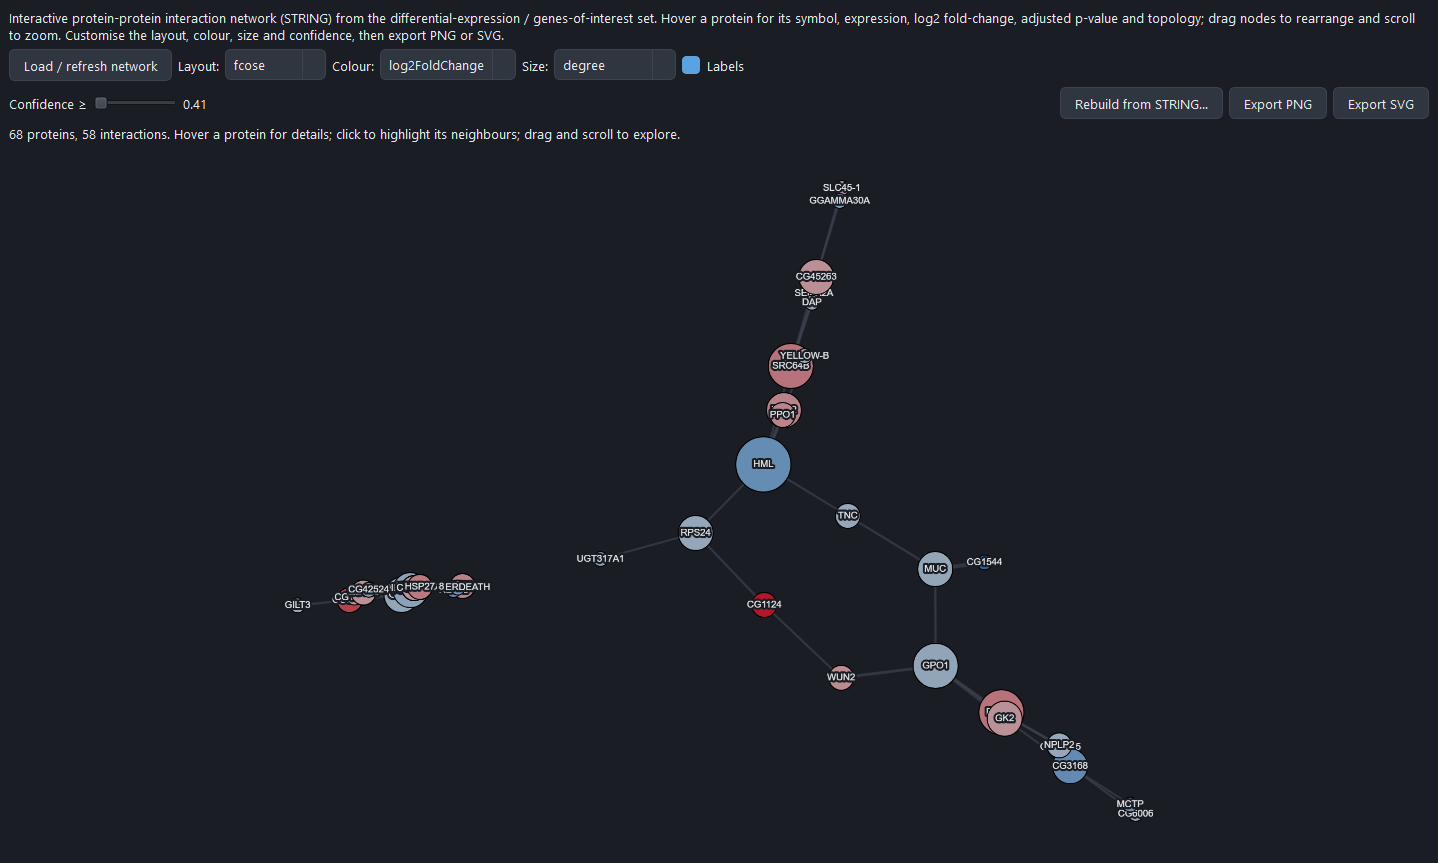
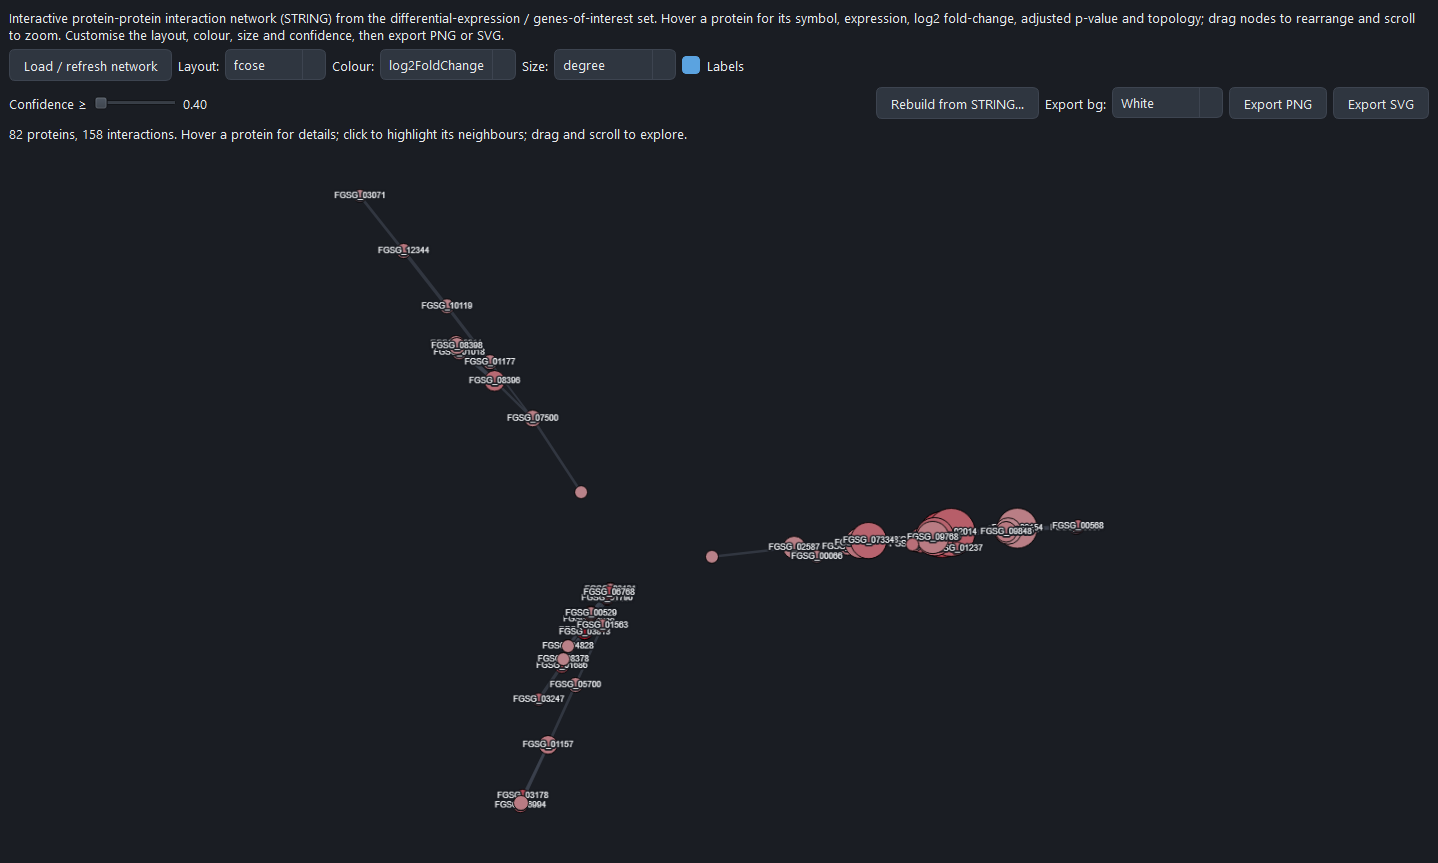
fix(0.6.1): debug-swarm fixes for PPI, enrichment, networks/stats + export bg
A deep debug sweep (find -> adversarial verify -> prioritize) of the 0.6.0 work,
with every fix verified on the benchmark projects before release.

PPI / networks
- build_string_network.R: seed STRING from gene_id when symbols are absent, so
  symbol-less genomes (Fusarium FGSG_* etc.) build a network instead of an empty
  one; log2FC join uses the same id. F. graminearum GSE78885 -> 82 nodes/158 edges.
- skip/degrade now writes a WARNING check (not PASS) and a valid (non-0-byte)
  GraphML; same valid-empty GraphML in export_network.R.

Enrichment / stats
- enrichment.smk: default bitr keytype to SYMBOL in microarray mode (workflow-side,
  not just the GUI), so mapped-OrgDb microarray runs are not silently empty.
- run_set_overlap.R: fall back to gene_id in count-matrix mode (no GTF -> NA symbols).
- sample_correlation.R: pairwise-complete correlation, NA-safe clustering, and
  degrade-to-placeholder so an NA microarray matrix no longer aborts the run.

Interactive PPI viewer
- Export background is selectable (White / Transparent); export forces dark labels
  so they stay legible regardless of the app theme.
- Label auto-hide is display-only (no longer mutates the labels preference / desyncs
  the checkbox); current layout remembered; explicit fit after layout.
- ppi_graph.py: confidence floor from the true min edge weight (no 1.0 sentinel);
  per-symbol dedup ignores NaN baseMean. New regression tests.

Packaging / tooling
[…]

diff --git a/app/assets/web/ppi/viewer.js b/app/assets/web/ppi/viewer.js
@@ -11,6 +11,7 @@ const state = {
   colorBy: "log2FoldChange",  // log2FoldChange | module
   sizeBy: "degree",           // degree | meanExpr | neglog10padj
   labels: true,
+  layout: "fcose",            // current layout name (kept in sync with the Qt combo)
   floor: 0,                   // confidence (edge weight) floor
   theme: { bg: "#ffffff", text: "#1a1a1a", edge: "#c7c7c7", muted: "#8a8a8a" },
 };
@@ -65,24 +66,30 @@ function computeRanges(nodes) {
   };
 }
 
-function styleArray() {
+// Labels are display-only auto-hidden above 220 nodes; this does NOT mutate the
+// user's labels preference, so a later small graph shows them again.
+function labelText(e) {
+  return (state.labels && cy && cy.nodes().length <= 220) ? e.data("symbol") : "";
+}
+function styleArrayFor(theme) {
   return [
     { selector: "node", style: {
         "background-color": nodeColor, "width": nodeSize, "height": nodeSize,
         "border-width": 1, "border-color": "rgba(0,0,0,0.45)",
-        "label": function (e) { return state.labels ? e.data("symbol") : ""; },
-        "font-size": 9, "color": state.theme.text, "text-valign": "center",
+        "label": labelText,
+        "font-size": 9, "color": theme.text, "text-valign": "center",
         "text-halign": "center", "text-outline-width": 2,
-        "text-outline-color": state.theme.bg, "min-zoomed-font-size": 7 } },
+        "text-outline-color": theme.bg, "min-zoomed-font-size": 7 } },
     { selector: "edge", style: {
         "width": function (e) { return 0.5 + (e.data("weight") || 0.4) * 3.5; },
-        "line-color": state.theme.edge, "curve-style": "haystack",
+        "line-color": theme.edge, "curve-style": "haystack",
         "opacity": 0.65 } },
     { selector: "node.faded", style: { "opacity": 0.12 } },
     { selector: "edge.faded", style: { "opacity": 0.05 } },
     { selector: "node.hl", style: { "border-width": 3, "border-color": "#1a73e8" } },
   ];
 }
+function styleArray() { return styleArrayFor(state.theme); }
 
 function pruneToBudget(elements) {
   const nodes = elements.nodes || [];
@@ -99,14 +106,31 @@ function layoutOpts(name, n) {
   if (name === "concentric") return { name: "concentric", animate: false,
         concentric: function (e) { return e.data("degree") || 1; }, levelWidth: function () { return 2; } };
   if (name === "grid") return { name: "grid", animate: false };
-  // fcose default: draft quality (skips the slow spectral init) keeps it sub-second.
+  // fcose draft (skips the slow spectral init) keeps it sub-second. The seeded RNG
+  // (reset in relayout) reduces run-to-run drift; the canonical reproducible network
+  // figure is the static results/figures/ppi_network.png (igraph, set.seed).
   return { name: "fcose", quality: "draft", animate: false, randomize: true,
            nodeRepulsion: 6000, idealEdgeLength: 70, packComponents: true };
 }
 
+// fcose draws random initial positions from Math.random (some of it asynchronously),
+// so install a seeded PRNG that is reset before each layout and never restored. This
+// makes a re-render and the exported figure reproducible, per the project's
+// "every figure regenerable" rule; a viewer needs no true randomness.
+var __rngSeed = 42;
+Math.random = function () {
+  __rngSeed = (__rngSeed + 0x6D2B79F5) | 0;
+  var t = Math.imul(__rngSeed ^ (__rngSeed >>> 15), 1 | __rngSeed);
+  t = (t + Math.imul(t ^ (t >>> 7), 61 | t)) ^ t;
+  return ((t ^ (t >>> 14)) >>> 0) / 4294967296;
+};
 function relayout(name) {
   if (!cy) return;
-  cy.layout(layoutOpts(name || "fcose", cy.nodes().length)).run();
+  if (name) state.layout = name;
+  __rngSeed = 42;  // reset the seeded RNG each layout to reduce run-to-run drift
+  var lay = cy.layout(layoutOpts(state.layout, cy.nodes().length));
+  lay.one("layoutstop", function () { cy.fit(undefined, 40); });
+  lay.run();
 }
 
 const tip = function () { return document.getElementById("tip"); };
@@ -158,7 +182,6 @@ window.PPI = {
     empty.style.display = "none";
     elements = pruneToBudget(elements);
     computeRanges(elements.nodes);
-    if (elements.nodes.length > 220) state.labels = false;
     if (cy) cy.destroy();
     cy = cytoscape({
       container: document.getElementById("cy"),
@@ -166,7 +189,7 @@ window.PPI = {
       wheelSensitivity: 0.2, layout: { name: "preset" },
     });
     bindInteractions();
-    relayout("fcose");
+    relayout(state.layout);
     return JSON.stringify({ nodes: cy.nodes().length, edges: cy.edges().length });
   },
   setLayout: function (name) { relayout(name); },
@@ -182,10 +205,19 @@ window.PPI = {
     document.body.style.background = state.theme.bg;
     if (cy) cy.style(styleArray());
   },
-  exportImage: function (fmt) {
+  exportImage: function (fmt, bg) {
     if (!cy) return "";
-    if (fmt === "svg") { return cy.svg({ full: true, bg: "#ffffff" }); }
-    return cy.png({ full: true, scale: 2, bg: "#ffffff" });  // data URL
+    // Export always uses a light style (dark labels) so text stays legible; the
+    // canvas background is the user's choice: white, or transparent (omit bg).
+    var transparent = (bg === "transparent");
+    cy.style(styleArrayFor({ bg: "#ffffff", text: "#1a1a1a", edge: "#c7c7c7", muted: "#8a8a8a" }));
+    var opts = { full: true };
+    if (!transparent) opts.bg = "#ffffff";
+    var out;
+    if (fmt === "svg") { out = cy.svg(opts); }
+    else { opts.scale = 2; out = cy.png(opts); }
+    cy.style(styleArray());  // restore the live theme
+    return out;
   },
   stats: function () { return cy ? JSON.stringify({ nodes: cy.nodes().length, edges: cy.edges().length }) : "{}"; },
   version: function () { return cytoscape.version; },

diff --git a/tests/test_ppi_graph.py b/tests/test_ppi_graph.py
@@ -72,3 +72,39 @@ def test_empty_nodes_file_is_valid(tmp_path):
     g = build_ppi_cytoscape_json(tmp_path)
     assert g["meta"]["node_count"] == 0
     json.dumps(g, allow_nan=False)
+
+
+def test_score_floor_is_data_minimum_not_sentinel(tmp_path):
+    nodes = [{"id": "A", "module": 1, "degree": 1, "betweenness": 0, "log2FC": 1.0},
+             {"id": "B", "module": 1, "degree": 1, "betweenness": 0, "log2FC": -1.0}]
+    # raw STRING combined scores (>1): floor must be the true minimum, not a 1.0 sentinel
+    edges = [{"source": "A", "target": "B", "weight": 700},
+             {"source": "B", "target": "A", "weight": 900}]
+    _write(tmp_path, nodes, edges)
+    g = build_ppi_cytoscape_json(tmp_path)
+    assert g["meta"]["score_floor"] == 700.0
+
+
+def test_score_floor_zero_when_edges_lack_weights(tmp_path):
+    nodes = [{"id": "A", "module": 1, "degree": 1, "betweenness": 0, "log2FC": 1.0},
+             {"id": "B", "module": 1, "degree": 1, "betweenness": 0, "log2FC": -1.0}]
+    (tmp_path / "results" / "networks").mkdir(parents=True, exist_ok=True)
+    pd.DataFrame(nodes).to_csv(tmp_path / "results" / "networks" / "string_ppi_nodes.csv", index=False)
+    pd.DataFrame([{"source": "A", "target": "B"}]).to_csv(
+        tmp_path / "results" / "networks" / "string_ppi_edges.csv", index=False)
+    g = build_ppi_cytoscape_json(tmp_path)
+    # non-empty edges with no weights -> floor 0.0 so the slider never hides every edge
+    assert g["meta"]["edge_count"] == 1
+    assert g["meta"]["score_floor"] == 0.0
+
+
+def test_dedup_skips_nan_basemean_row(tmp_path):
+    nodes = [{"id": "GENE", "module": 1, "degree": 1, "betweenness": 0, "log2FC": 2.0}]
+    deseq = [{"gene_id": "g1", "symbol": "GENE", "baseMean": float("nan"), "log2FoldChange": 9.9, "padj": 0.5},
+             {"gene_id": "g2", "symbol": "GENE", "baseMean": 100.0, "log2FoldChange": 2.0, "padj": 1e-3}]
+    norm = [{"gene_id": "g2", "s1": 5.0, "s2": 7.0}]
+    _write(tmp_path, nodes, [], deseq, norm)
+    d = {n["data"]["id"]: n["data"] for n in build_ppi_cytoscape_json(tmp_path)["elements"]["nodes"]}["GENE"]
+    assert d["padj"] == 1e-3          # the valid row wins, not the NaN-baseMean row
+    assert d["baseMean"] == 100.0
+    assert d["meanExpr"] == 6.0

diff --git a/app/main.py b/app/main.py
@@ -115,7 +115,9 @@ def _ppi_self_test(app, window) -> None:
             Path(out).write_text(_json.dumps(result), encoding="utf-8")
         except Exception:
             pass
-        app.exit(code)
+        # Defer the exit so it is delivered even when _report runs from the early
+        # guard path (before app.exec() has started); a bare app.exit() there is lost.
+        QTimer.singleShot(0, lambda: app.exit(code))
 
     def finish() -> None:
         ok = bool(result["version"]) and result["nodes"] == 3
@@ -125,7 +127,19 @@ def _ppi_self_test(app, window) -> None:
         QTimer.singleShot(300, lambda: _report(False, 3))
         return
 
-    viewer = PpiViewer()
+    try:
+        viewer = PpiViewer()
+    except Exception as exc:
+        print(f"PPI_SELFTEST construction error: {exc}", flush=True)
+        _report(False, 3)
+        return
+    # QtWebEngine imported but the viewer has no live web view (e.g. viewer.html not
+    # bundled): fail cleanly with a sentinel + exit code instead of dereferencing
+    # viewer.view (None) and hanging on the excepthook's modal dialog.
+    if not viewer.available:
+        _report(False, 3)
+        return
+    app._selftest_viewer = viewer  # keep a reference alive across the event loop
     viewer.resize(480, 360)
     viewer.show()
 

diff --git a/app/core/ppi_graph.py b/app/core/ppi_graph.py
@@ -67,9 +67,9 @@ def build_ppi_cytoscape_json(project_root: str | Path) -> dict:
         if not de.empty and "symbol" in de.columns:
             de = de[de["symbol"].notna()].copy()
             de["__sym"] = de["symbol"].astype(str).str.upper()
-            sort_col = "baseMean" if "baseMean" in de.columns else None
-            if sort_col:
-                de = de.sort_values(sort_col)
+            if "baseMean" in de.columns:
+                # na_position='first' so a NaN baseMean never wins keep='last' (the max).
+                de = de.sort_values("baseMean", na_position="first")
             de = de.drop_duplicates("__sym", keep="last")
             for _, r in de.iterrows():
                 de_by_sym[r["__sym"]] = {
@@ -121,7 +121,7 @@ def build_ppi_cytoscape_json(project_root: str | Path) -> dict:
         }})
 
     out_edges = []
-    floor = 1.0
+    weights = []
     edges_path = root / EDGES_CSV
     if edges_path.exists():
         try:
@@ -135,9 +135,10 @@ def build_ppi_cytoscape_json(project_root: str | Path) -> dict:
             out_edges.append({"data": {
                 "source": str(e["source"]), "target": str(e["target"]), "weight": w}})
             if isinstance(w, (int, float)):
-                floor = min(floor, w)
-    if not out_edges:
-        floor = 0.0
+                weights.append(w)
+    # The confidence slider floors at the true minimum edge weight (the build
+    # threshold); never use a 1.0 sentinel, which would hide every edge.
+    floor = min(weights) if weights else 0.0
 
     return {"elements": {"nodes": out_nodes, "edges": out_edges},
             "meta": {"node_count": len(out_nodes), "edge_count": len(out_edges),

diff --git a/app/core/snakemake_runner.py b/app/core/snakemake_runner.py
@@ -61,7 +61,14 @@ def build_snakemake_args(config: AppConfig, mode: str = "run") -> list[str]:
         # DESeq2 even if an upstream output's mtime looks stale. The GOI target is
         # included only when it exists as a rule (custom_gene_list set), matching
         # the `if _GOI:` rule guard.
-        targets = ["figures"]
+        # All style-consuming rules, so "Regenerate figures" restyles the whole figure
+        # set, not just the core DESeq2 figures. Optional rules are gated on their config
+        # so they are only forced when their inputs exist (else MissingInputException).
+        targets = ["figures", "sample_correlation", "wilcoxon_sensitivity", "set_overlap"]
+        if config.workflow.enrichment:
+            targets.append("enrichment_figures")
+        if config.ppi.enabled:
+            targets.append("network_string")
         if config.gene_sets.custom_gene_list:
             targets.append("genes_of_interest")
         args += ["--forcerun", *targets, "--allowed-rules", *targets]

diff --git a/app/ui/main_window.py b/app/ui/main_window.py
@@ -1361,6 +1361,9 @@ class MainWindow(QMainWindow):
         rebuild_btn.setToolTip("Re-run the STRING network with the current score threshold "
                                "(Outputs → Figure Style). Re-contacts string-db.org.")
         rebuild_btn.clicked.connect(self._regenerate_ppi)
+        self.ppi_export_bg = QComboBox()
+        self.ppi_export_bg.addItems(["White", "Transparent"])
+        self.ppi_export_bg.setToolTip("Background of the exported PNG/SVG (labels stay dark either way).")
         export_png = QPushButton("Export PNG")
         export_png.clicked.connect(lambda: self._ppi_export("png"))
         export_svg = QPushButton("Export SVG")
@@ -1369,6 +1372,8 @@ class MainWindow(QMainWindow):
         row2.addWidget(self.ppi_conf_lbl)
         row2.addStretch(1)
         row2.addWidget(rebuild_btn)
+        row2.addWidget(QLabel("Export bg:"))
+        row2.addWidget(self.ppi_export_bg)
         row2.addWidget(export_png)
         row2.addWidget(export_svg)
         layout.addLayout(row2)
@@ -1452,7 +1457,8 @@ class MainWindow(QMainWindow):
                                               f"{fmt.upper()} (*.{fmt})")
         if not path:
             return
-        self.ppi_viewer.export_image(fmt, lambda data: self._save_ppi_export(path, fmt, data))
+        bg = "transparent" if self.ppi_export_bg.currentText() == "Transparent" else "white"
+        self.ppi_viewer.export_image(fmt, bg, lambda data: self._save_ppi_export(path, fmt, data))
 
     def _save_ppi_export(self, path: str, fmt: str, data) -> None:
         if not data:

diff --git a/app/constants.py b/app/constants.py
@@ -1,8 +1,8 @@
 from __future__ import annotations
 
 APP_NAME = "BulkSeq Studio"
-APP_VERSION = "0.6.0"
-WORKFLOW_VERSION = "0.6.0"
+APP_VERSION = "0.6.1"
+WORKFLOW_VERSION = "0.6.1"
 
 # Below this STAR uniquely-mapped %, the Run Monitor warns and offers to stop the
 # run; a wrong reference or contaminated reads otherwise waste hours of alignment.

diff --git a/app/ui/ppi_viewer.py b/app/ui/ppi_viewer.py
@@ -126,12 +126,12 @@ class PpiViewer(QWidget):
         if self._ready:
             self._run("setTheme", palette)
 
-    def export_image(self, fmt: str, callback) -> None:
+    def export_image(self, fmt: str, bg: str, callback) -> None:
         if self.view is None or not self._ready:
             callback("")
             return
         self.view.page().runJavaScript(
-            f"window.PPI ? PPI.exportImage({json.dumps(fmt)}) : ''", callback)
+            f"window.PPI ? PPI.exportImage({json.dumps(fmt)}, {json.dumps(bg)}) : ''", callback)
 
     # --- self-test helpers ----------------------------------------------
     def probe_version(self, callback) -> None:

diff --git a/CHANGELOG.md b/CHANGELOG.md
@@ -1,0 +1,50 @@
+# Changelog
+
+## 0.6.1 — 2026-06-22
+
+Bug-fix release from a deep debug sweep of the 0.6.0 network/stats and
+interactive-PPI work. Every fix below was verified on the benchmark projects
+(Drosophila pasilla, mouse GSE5583, *Fusarium graminearum* GSE78885) before release.
+
+### Fixed
+
+- **PPI network for symbol-less genomes (e.g. *Fusarium*).** The STRING seed was
+  built only from gene symbols, so locus-tag annotations (FGSG_* etc.) produced an
+  empty network. It now falls back to `gene_id` when symbols are absent, and the
+  log2FC node colouring joins on the same identifier. *F. graminearum* GSE78885 now
+  builds an 82-node / 158-edge network (STRING taxid 229533).
+- **PPI degrade now reports `WARNING`, not `PASS`,** so an empty/dropped network is
+  visible in the run-health rollup instead of being masked.
+- **Empty network exports are now valid GraphML** (a minimal well-formed file)
+  rather than a 0-byte file that fails to import in Cytoscape/igraph.
+- **Sample-correlation no longer aborts the run on NA** intensities (microarray):
+  pairwise-complete correlation, NA-safe clustering, and degrade-to-placeholder.
+- **Microarray enrichment** now defaults the bitr keytype to `SYMBOL` in the
+  workflow (not only the GUI), so a mapped-OrgDb microarray run no longer silently
+  returns zero GO/KEGG/GSEA terms from a scripted config.
+- **Set-overlap (MSigDB Hallmark)** falls back to `gene_id` in count-matrix mode,
+  where there is no GTF and symbols are all NA.
+- **Interactive PPI export background is selectable (White / Transparent)** and the
+  export always uses dark labels so they stay legible regardless of the app theme.
+- **Label auto-hide** (above ~220 nodes) is now display-only and no longer mutates
+  the labels preference, so smaller networks viewed afterwards keep their labels and
+  the Qt checkbox stays in sync. The current layout is also remembered across loads.
+- **Frozen self-test fails cleanly** (sentinel + exit code) when the bundled
+  `viewer.html` is missing, instead of hanging on a modal dialog.
+- **Regenerate figures** now restyles the 0.6.0 style-aware figures
+  (sample-correlation, Wilcoxon, set-overlap, enrichment, PPI), not just the core
+  DESeq2 figures.
+- **PPI graph assembler hardening:** confidence floor derived from the true minimum
+  edge weight (never a 1.0 sentinel that hides every edge), and per-symbol dedup no
+  longer lets a NaN-baseMean row win over a valid one.
+
+## 0.6.0 — 2026-06-21
+
+- Dedicated interactive **PPI Network** tab (cytoscape.js in QtWebEngine): hover for
+  per-protein detail, customise layout/colour/size/confidence, export PNG/SVG.
+- **KEGG** pathway ORA + GSEA, working for any organism with a KEGG code even
+  without a Bioconductor OrgDb (fungi, bacteria).
+- STRING PPI network + Cytoscape export (GraphML/SIF/cytoscape.js JSON).
+- Sample-to-sample correlation (Pearson + Spearman), Wilcoxon concordance, TOST
+  equivalence, MSigDB Hallmark set-overlap, disease-ontology enrichment.
+- Eight figure palettes.